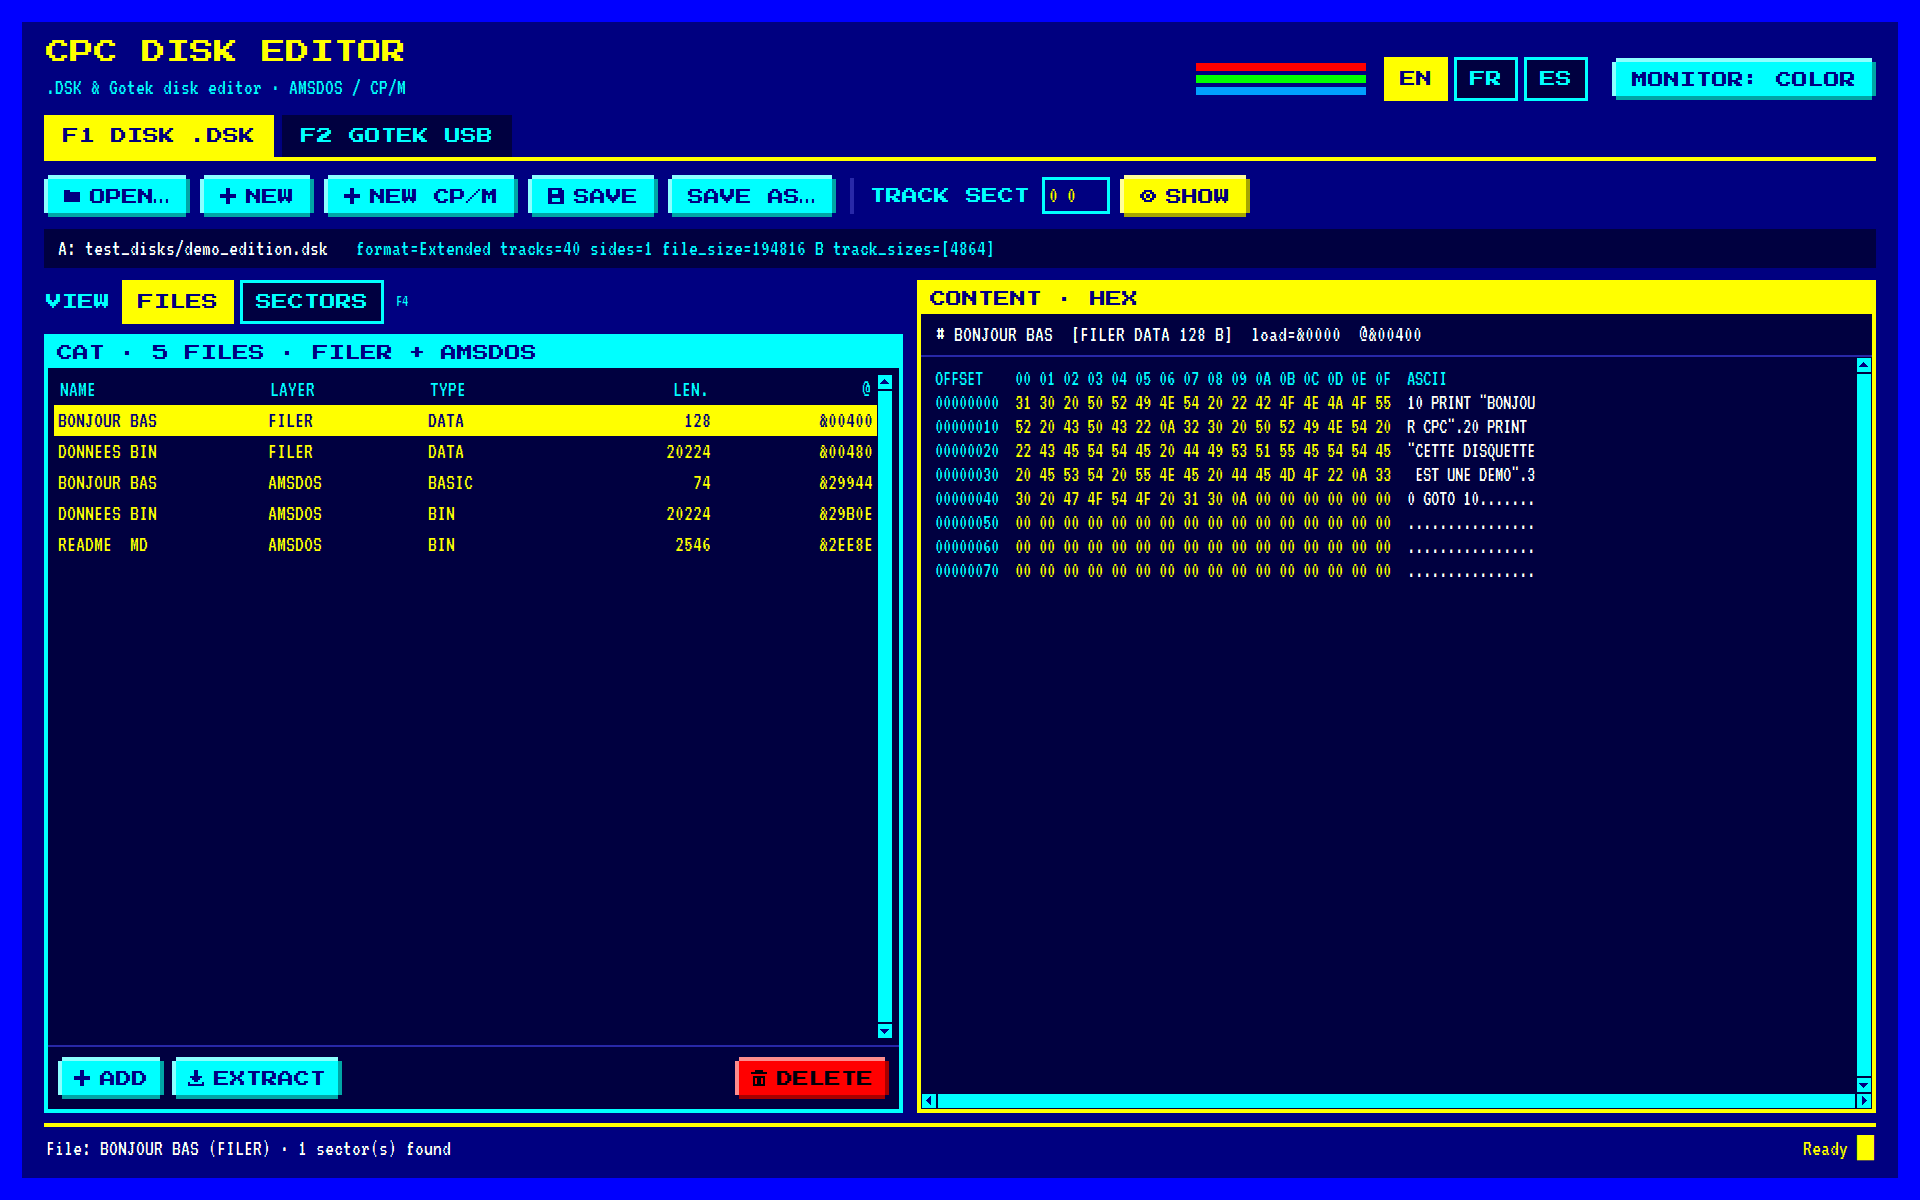
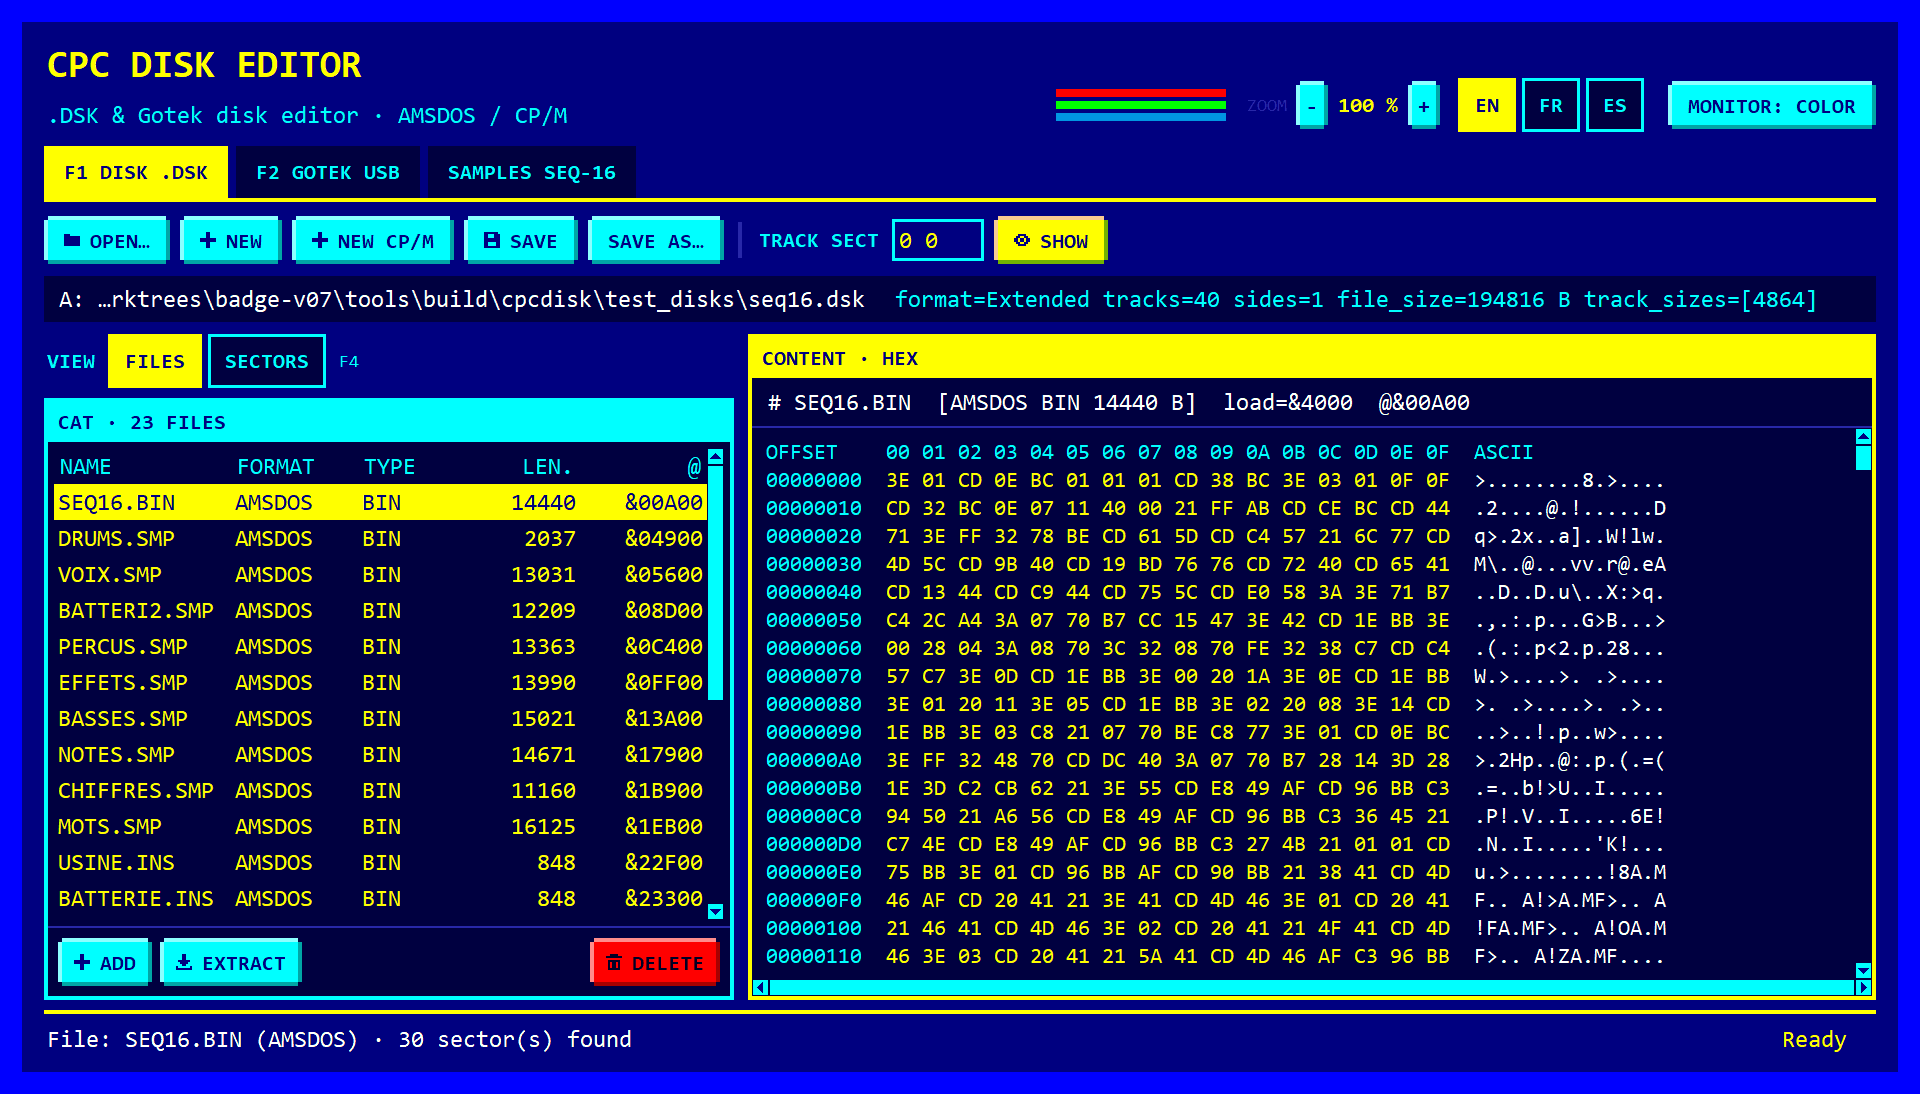
Site : nouvelles captures de CPC DISK par langue (Disquette, Gotek, Samples)

diff --git a/docs/fr/index.html b/docs/fr/index.html
@@ -142,9 +142,10 @@
 </ul>
 <p>Téléchargement sur la <a href="https://github.com/ChristopheCruz/CPC-DISK/releases/latest">page des releases de CPC DISK</a> : un programme Windows (<code>cpc-dsk-gui-1.2.0-windows-x64.exe</code>) et un binaire Linux.</p>
 <div class="gallery">
-<figure class="shot-fig"><div class="shot"><img src="../assets/img/cpcdisk-fr.png" width="1920" height="1200" alt="L&#x27;éditeur CPC DISK : catalogue d&#x27;une disquette et vue hexadécimale d&#x27;un fichier" loading="lazy" decoding="async"></div><figcaption><strong>CPC DISK · onglet Disquette</strong>Ouvrir une image .dsk, parcourir son catalogue, ajouter ou extraire des fichiers.</figcaption></figure>
+<figure class="shot-fig"><div class="shot"><img src="../assets/img/cpcdisk-fr.png" width="1920" height="1094" alt="L&#x27;éditeur CPC DISK : catalogue d&#x27;une disquette et vue hexadécimale d&#x27;un fichier" loading="lazy" decoding="async"></div><figcaption><strong>CPC DISK · onglet Disquette</strong>Ouvrir une image .dsk, parcourir son catalogue, ajouter ou extraire des fichiers.</figcaption></figure>
 
-<figure class="shot-fig"><div class="shot"><img src="../assets/img/cpcdisk-gotek-en.png" width="1920" height="1200" alt="L&#x27;onglet Gotek USB de CPC DISK : des images de disquettes transformées en fichiers pour la clé USB" loading="lazy" decoding="async"></div><figcaption><strong>CPC DISK · onglet Gotek USB</strong>Transformer des images .dsk en fichiers pour la clé USB du Gotek (capture de la version anglaise).</figcaption></figure>
+<figure class="shot-fig"><div class="shot"><img src="../assets/img/cpcdisk-gotek-fr.png" width="1920" height="1094" alt="L&#x27;onglet Gotek USB de CPC DISK : des images de disquettes transformées en fichiers pour la clé USB" loading="lazy" decoding="async"></div><figcaption><strong>CPC DISK · onglet Gotek USB</strong>Transformer des images .dsk en fichiers pour la clé USB du Gotek.</figcaption></figure>
+<figure class="shot-fig"><div class="shot"><img src="../assets/img/cpcdisk-samples-fr.png" width="1920" height="1094" alt="L'onglet Samples SEQ-16 de CPC DISK : une banque de samples ouverte, avec le rendu CPC du sample choisi" loading="lazy" decoding="async"></div><figcaption><strong>CPC DISK · onglet SAMPLES SEQ-16</strong>Des WAV vers une banque .SMP : rendu du CPC, écoute, jauge de mémoire.</figcaption></figure>
 
 </div>
 <h3 id="samples-pc">Ses propres banques de samples à partir de WAV</h3>

diff --git a/docs/es/index.html b/docs/es/index.html
@@ -142,9 +142,10 @@
 </ul>
 <p>Descarga en la <a href="https://github.com/ChristopheCruz/CPC-DISK/releases/latest">página de releases de CPC DISK</a>: un programa de Windows (<code>cpc-dsk-gui-1.2.0-windows-x64.exe</code>) y un binario de Linux.</p>
 <div class="gallery">
-<figure class="shot-fig"><div class="shot"><img src="../assets/img/cpcdisk-es.png" width="1920" height="1200" alt="El editor CPC DISK: catálogo de un disquete y vista hexadecimal de un fichero" loading="lazy" decoding="async"></div><figcaption><strong>CPC DISK · pestaña Disquete</strong>Abrir una imagen .dsk, recorrer su catálogo, añadir o extraer ficheros.</figcaption></figure>
+<figure class="shot-fig"><div class="shot"><img src="../assets/img/cpcdisk-es.png" width="1920" height="1094" alt="El editor CPC DISK: catálogo de un disquete y vista hexadecimal de un fichero" loading="lazy" decoding="async"></div><figcaption><strong>CPC DISK · pestaña Disquete</strong>Abrir una imagen .dsk, recorrer su catálogo, añadir o extraer ficheros.</figcaption></figure>
 
-<figure class="shot-fig"><div class="shot"><img src="../assets/img/cpcdisk-gotek-en.png" width="1920" height="1200" alt="La pestaña Gotek USB de CPC DISK: imágenes de disquete convertidas en ficheros para el pendrive" loading="lazy" decoding="async"></div><figcaption><strong>CPC DISK · pestaña Gotek USB</strong>Convertir imágenes .dsk en los ficheros del pendrive del Gotek (captura de la versión inglesa).</figcaption></figure>
+<figure class="shot-fig"><div class="shot"><img src="../assets/img/cpcdisk-gotek-es.png" width="1920" height="1094" alt="La pestaña Gotek USB de CPC DISK: imágenes de disquete convertidas en ficheros para el pendrive" loading="lazy" decoding="async"></div><figcaption><strong>CPC DISK · pestaña Gotek USB</strong>Convertir imágenes .dsk en los ficheros del pendrive del Gotek.</figcaption></figure>
+<figure class="shot-fig"><div class="shot"><img src="../assets/img/cpcdisk-samples-es.png" width="1920" height="1094" alt="La pestaña Samples SEQ-16 de CPC DISK: un banco de samples abierto, con el sonido CPC del sample elegido" loading="lazy" decoding="async"></div><figcaption><strong>CPC DISK · pestaña SAMPLES SEQ-16</strong>De WAV a un banco .SMP: sonido del CPC, escucha, indicador de memoria.</figcaption></figure>
 
 </div>
 <h3 id="samples-pc">Tus propios bancos de samples a partir de WAV</h3>

diff --git a/docs/index.html b/docs/index.html
@@ -142,9 +142,10 @@
 </ul>
 <p>Downloads on the <a href="https://github.com/ChristopheCruz/CPC-DISK/releases/latest">CPC DISK release page</a>: a Windows program (<code>cpc-dsk-gui-1.2.0-windows-x64.exe</code>) and a Linux binary.</p>
 <div class="gallery">
-<figure class="shot-fig"><div class="shot"><img src="assets/img/cpcdisk-en.png" width="1920" height="1200" alt="CPC DISK editor showing the catalog of a disk and the hex view of a file" loading="lazy" decoding="async"></div><figcaption><strong>CPC DISK · Disk tab</strong>Open a .dsk image, browse its catalog, add or extract files.</figcaption></figure>
+<figure class="shot-fig"><div class="shot"><img src="assets/img/cpcdisk-en.png" width="1920" height="1094" alt="CPC DISK editor showing the catalog of a disk and the hex view of a file" loading="lazy" decoding="async"></div><figcaption><strong>CPC DISK · Disk tab</strong>Open a .dsk image, browse its catalog, add or extract files.</figcaption></figure>
 
-<figure class="shot-fig"><div class="shot"><img src="assets/img/cpcdisk-gotek-en.png" width="1920" height="1200" alt="CPC DISK Gotek USB tab: disk images turned into files for the USB key" loading="lazy" decoding="async"></div><figcaption><strong>CPC DISK · Gotek USB tab</strong>Turn .dsk images into the files of a Gotek USB stick.</figcaption></figure>
+<figure class="shot-fig"><div class="shot"><img src="assets/img/cpcdisk-gotek-en.png" width="1920" height="1094" alt="CPC DISK Gotek USB tab: disk images turned into files for the USB key" loading="lazy" decoding="async"></div><figcaption><strong>CPC DISK · Gotek USB tab</strong>Turn .dsk images into the files of a Gotek USB stick.</figcaption></figure>
+<figure class="shot-fig"><div class="shot"><img src="assets/img/cpcdisk-samples-en.png" width="1920" height="1094" alt="CPC DISK Samples SEQ-16 tab: a sample bank open, with the CPC rendering of the chosen sample" loading="lazy" decoding="async"></div><figcaption><strong>CPC DISK · SAMPLES SEQ-16 tab</strong>Turn WAV files into a .SMP bank: CPC rendering, listening, memory gauge.</figcaption></figure>
 
 </div>
 <h3 id="samples-pc">Your own sample banks from WAV files</h3>
